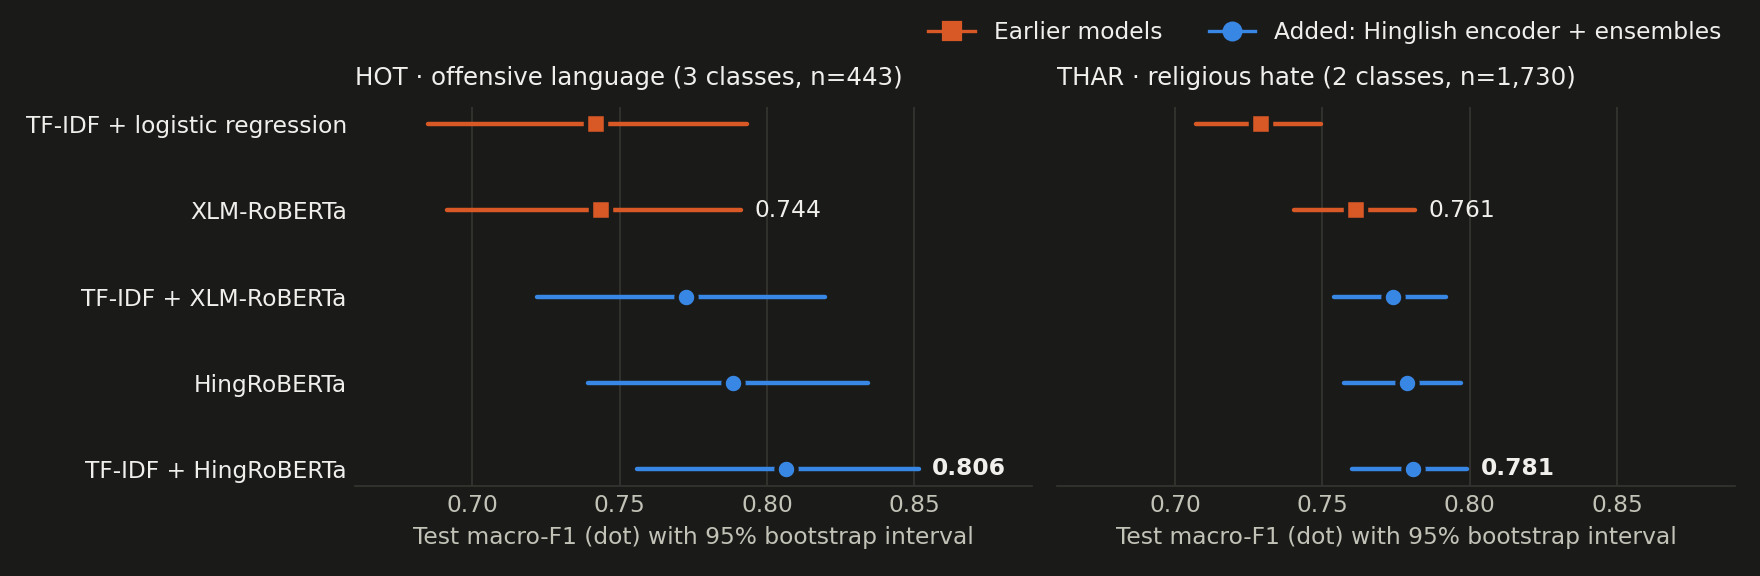
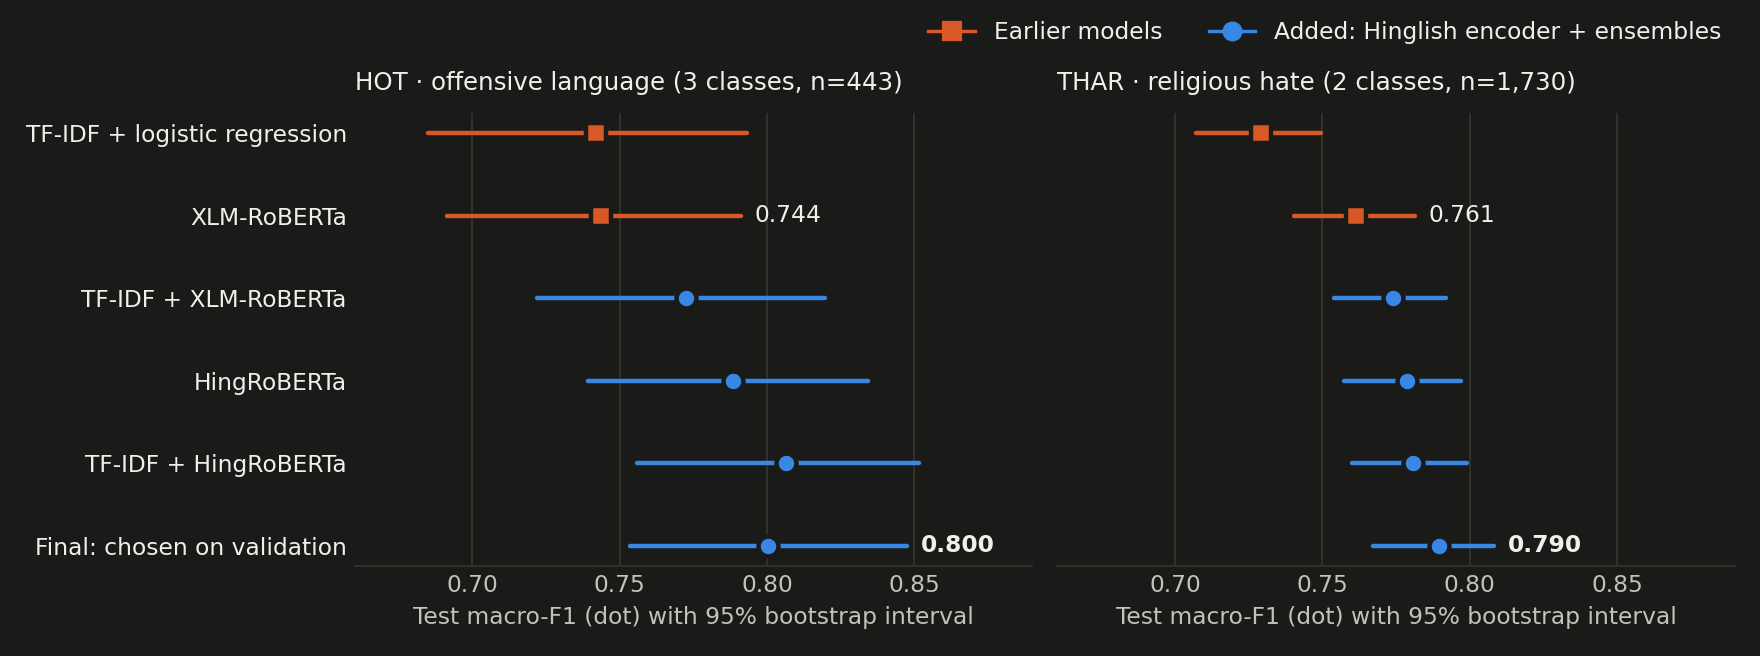
Validation-selected final systems (HOT 0.800, THAR 0.790), extra-data pretraining, selection script
Final systems chosen from 12 pre-registered candidates on validation and scored on
test once. Corrects the earlier 0.806, which was picked by comparing on test.

diff --git a/scripts/intermediate_train.py b/scripts/intermediate_train.py
@@ -1,0 +1,131 @@
+"""Stage 1 of intermediate-task training: teach an encoder "abusive/aggressive vs not" on extra
+Hindi/Hinglish data, then save the ENCODER ONLY so `cli train --base-model <dir>` can fine-tune it
+on HOT or THAR exactly like any Hugging Face model.
+
+    python scripts/intermediate_train.py --device cuda
+    python -m hinglishguard.cli train --task hot --backend transformer --device cuda \
+        --base-model artifacts/_intermediate/hing-aux --output-name hingaux
+
+Extra data (downloaded to data/raw/aux/, never committed):
+  - TRAC-1 Hindi (Kumar et al., 2018; Apache-2.0): Facebook comments, ~74% Roman-script Hinglish.
+    OAG (overtly aggressive) -> 1, NAG -> 0. CAG (covert) is dropped as too ambiguous.
+  - MACD Hindi (Gupta et al., NeurIPS 2022; no licence stated, so research use only, not
+    redistributed): ShareChat comments in Devanagari. Source label 0 = abusive -> 1.
+
+Leakage guard: any extra comment whose normalised fingerprint matches a HOT/THAR validation or
+test record is removed before training, so those splits stay unseen.
+"""
+import argparse
+import json
+import sys
+import urllib.request
+from pathlib import Path
+
+ROOT = Path(__file__).resolve().parents[1]
+sys.path.insert(0, str(ROOT))
+from hinglishguard.data import fingerprint  # noqa: E402
+from hinglishguard.normalization import clean  # noqa: E402
+
+AUX = ROOT / "data/raw/aux"
+OUT = ROOT / "artifacts/_intermediate/hing-aux"
+SOURCES = {
+    "trac_hi_train.csv": "https://raw.githubusercontent.com/kmi-linguistics/trac-1/master/hindi/agr_hi_train.csv",
+    "trac_hi_dev.csv": "https://raw.githubusercontent.com/kmi-linguistics/trac-1/master/hindi/agr_hi_dev.csv",
+    "macd_hindi_train.csv": "https://raw.githubusercontent.com/ShareChatAI/MACD/main/dataset/hindi_train.csv",
+    "macd_hindi_val.csv": "https://raw.githubusercontent.com/ShareChatAI/MACD/main/dataset/hindi_val.csv",
+    "macd_hindi_test.csv": "https://raw.githubusercontent.com/ShareChatAI/MACD/main/dataset/hindi_test.csv",
+}
+
+
+def download():
+    AUX.mkdir(parents=True, exist_ok=True)
+    for name, url in SOURCES.items():
+        if not (AUX / name).exists():
+            urllib.request.urlretrieve(url, AUX / name)
+
+
+def load_rows():
+    import pandas as pd
+    rows = []
+    for name in ("trac_hi_train.csv", "trac_hi_dev.csv"):
+        d = pd.read_csv(AUX / name, header=None, names=["id", "text", "label"], on_bad_lines="skip")
+        d = d[d.label.isin(["OAG", "NAG"])]
+        rows += [(str(t), int(lbl == "OAG"), "trac") for t, lbl in zip(d.text, d.label)]
+    for name in ("macd_hindi_train.csv", "macd_hindi_val.csv", "macd_hindi_test.csv"):
+        d = pd.read_csv(AUX / name)
+        rows += [(str(t), int(lbl == 0), "macd") for t, lbl in zip(d.text, d.label)]
+    return rows
+
+
+def main():
+    ap = argparse.ArgumentParser()
+    ap.add_argument("--base-model", default="l3cube-pune/hing-roberta")
+    ap.add_argument("--epochs", type=float, default=2)
+    ap.add_argument("--device", default="cuda")
+    ap.add_argument("--seed", type=int, default=42)
+    args = ap.parse_args()
+
+    download()
+    records = json.loads((ROOT / "data/processed/records.json").read_text(encoding="utf-8"))
+    protected = {fingerprint(r["text"]) for r in records if r["split"] in ("validation", "test")}
+    rows, dropped = [], 0
+    for text, label, src in load_rows():
+        text = clean(text)
+        if not text.strip():
+            continue
+        if fingerprint(text) in protected:
+            dropped += 1
+            continue
+        rows.append({"text": text, "label": label, "source": src})
+    by_src = {s: sum(r["source"] == s for r in rows) for s in ("trac", "macd")}
+    print(f"aux rows: {len(rows)} {by_src}, positive={sum(r['label'] for r in rows)}, removed as HOT/THAR val/test duplicates: {dropped}", flush=True)
+
+    import random
+
+    import torch
+    from transformers import (AutoModel, AutoModelForSequenceClassification, AutoTokenizer,
+                              DataCollatorWithPadding, Trainer, TrainingArguments, set_seed)
+    set_seed(args.seed)
+    random.Random(args.seed).shuffle(rows)
+    hold = rows[:2000]  # sanity check only; HOT/THAR splits are what matter
+    train = rows[2000:]
+    tok = AutoTokenizer.from_pretrained(args.base_model)
+
+    class DS(torch.utils.data.Dataset):
+        def __init__(self, r):
+            self.r = r
+
+        def __len__(self):
+            return len(self.r)
+
+        def __getitem__(self, i):
+            return dict(tok(self.r[i]["text"], truncation=True, max_length=192), labels=self.r[i]["label"])
+
+    def compute(p):
+        from sklearn.metrics import f1_score
+        return {"macro_f1": f1_score(p.label_ids, p.predictions.argmax(axis=1), average="macro")}
+
+    model = AutoModelForSequenceClassification.from_pretrained(args.base_model, num_labels=2)
+    targs = TrainingArguments(output_dir=str(OUT.parent / "checkpoints"), learning_rate=2e-5, per_device_train_batch_size=16,
+                              per_device_eval_batch_size=32, num_train_epochs=args.epochs, weight_decay=0.01, warmup_ratio=0.06,
+                              eval_strategy="epoch", save_strategy="no", fp16=args.device == "cuda", seed=args.seed,
+                              report_to=[], logging_steps=200)
+    trainer = Trainer(model=model, args=targs, train_dataset=DS(train), eval_dataset=DS(hold),
+                      data_collator=DataCollatorWithPadding(tok), compute_metrics=compute)
+    trainer.train()
+    result = trainer.evaluate()
+    print("aux held-out:", {k: round(v, 4) for k, v in result.items() if "f1" in k or "loss" in k}, flush=True)
+
+    # Save the encoder only: the stage-2 trainer adds a fresh HOT/THAR head on top.
+    OUT.mkdir(parents=True, exist_ok=True)
+    model.save_pretrained(OUT / "_full")
+    AutoModel.from_pretrained(OUT / "_full").save_pretrained(OUT)
+    tok.save_pretrained(OUT)
+    (OUT / "aux_report.json").write_text(json.dumps({"rows": len(rows), "by_source": by_src, "removed_duplicates": dropped,
+                                                      "aux_holdout": result, "base_model": args.base_model,
+                                                      "epochs": args.epochs, "seed": args.seed}, indent=2), encoding="utf-8")
+    print("saved encoder to", OUT, flush=True)
+
+
+if __name__ == "__main__":
+    main()

diff --git a/scripts/select_ensemble.py b/scripts/select_ensemble.py
@@ -1,0 +1,63 @@
+"""Pick an ensemble on VALIDATION data only, then score the single winner on the test set.
+
+    python scripts/select_ensemble.py --task hot --device cuda
+
+The candidate list is fixed in advance (not searched over every subset) so that choosing
+among them does not overfit the validation split. Only the chosen ensemble is evaluated on
+test, once; its folder is artifacts/<task>/best.
+"""
+import argparse
+import json
+import sys
+from pathlib import Path
+
+ROOT = Path(__file__).resolve().parents[1]
+sys.path.insert(0, str(ROOT))
+from hinglishguard.models import calibrate_ensemble, evaluate  # noqa: E402
+
+SEEDS = ["hingroberta", "hingroberta-s13", "hingroberta-s7"]
+CANDIDATES = {
+    "hingroberta alone": ["hingroberta"],
+    "hingaux alone (extra-data pretraining)": ["hingaux"],
+    "tfidf+hingroberta (current)": ["tfidf", "hingroberta"],
+    "tfidf+hingaux": ["tfidf", "hingaux"],
+    "hingaux + hingroberta x3 seeds + tfidf": ["hingaux"] + SEEDS + ["tfidf"],
+    "everything": ["hingaux"] + SEEDS + ["hingmixed", "muril", "tfidf"],
+    "hingroberta x3 seeds": SEEDS,
+    "hingroberta x3 seeds + tfidf": SEEDS + ["tfidf"],
+    "3 Hinglish/Indic encoders": ["hingroberta", "hingmixed", "muril"],
+    "3 Hinglish/Indic encoders + tfidf": ["hingroberta", "hingmixed", "muril", "tfidf"],
+    "all transformers + tfidf": SEEDS + ["hingmixed", "muril", "tfidf"],
+}
+
+
+def main():
+    ap = argparse.ArgumentParser()
+    ap.add_argument("--task", choices=["hot", "thar"], required=True)
+    ap.add_argument("--device", default="cpu")
+    args = ap.parse_args()
+    P, A = ROOT / "data/processed", ROOT / "artifacts"
+    results = {}
+    for name, members in CANDIDATES.items():
+        missing = [m for m in members if not (A / args.task / m / "metadata.json").exists()]
+        if missing:
+            print(f"skip {name}: missing {missing}")
+            continue
+        report = calibrate_ensemble(P, A, args.task, args.device, members=tuple(members), output_name="best")
+        results[name] = (report["validation"]["macro_f1"], members)
+        print(f"[{args.task}] VALIDATION {report['validation']['macro_f1']:.4f}  {name}", flush=True)
+    winner = max(results, key=lambda k: results[k][0])
+    members = results[winner][1]
+    calibrate_ensemble(P, A, args.task, args.device, members=tuple(members), output_name="best")
+    test = evaluate(P, A, args.task, "best", args.device)
+    hate = {k: round(v["f1-score"], 3) for k, v in test["report"].items() if isinstance(v, dict) and k not in ("macro avg", "weighted avg")}
+    meta = json.loads((A / args.task / "best/metadata.json").read_text(encoding="utf-8"))
+    summary = {"task": args.task, "chosen": winner, "members": members, "validation": {k: round(v[0], 4) for k, v in results.items()},
+               "test_macro_f1": round(test["macro_f1"], 4), "test_ci95": [round(x, 4) for x in test["macro_f1_ci95"]],
+               "test_per_class_f1": hate, "validation_coverage": round(meta["thresholds"]["coverage"], 3)}
+    (A / args.task / "best/selection.json").write_text(json.dumps(summary, indent=2), encoding="utf-8")
+    print(json.dumps(summary, indent=2))
+
+
+if __name__ == "__main__":
+    main()

diff --git a/scripts/plot_results.py b/scripts/plot_results.py
@@ -20,6 +20,7 @@ MODELS = [  # (folder, label, added in the HingRoBERTa/ensemble update?)
     ("ensemble", "TF-IDF + XLM-RoBERTa", True),
     ("hingroberta", "HingRoBERTa", True),
     ("ensemble-hing", "TF-IDF + HingRoBERTa", True),
+    ("best", "Final: chosen on validation", True),
 ]
 TASKS = [("hot", "HOT · offensive language (3 classes, n=443)"),
          ("thar", "THAR · religious hate (2 classes, n=1,730)")]
@@ -38,19 +39,18 @@ def load(task, folder):
 def draw(mode):
     t = THEMES[mode]
     plt.rcParams.update({"font.family": "DejaVu Sans", "font.size": 10.5})
-    fig, axes = plt.subplots(1, 2, figsize=(11, 3.6), sharey=True, facecolor=t["surface"])
+    fig, axes = plt.subplots(1, 2, figsize=(11, 4.1), sharey=True, facecolor=t["surface"])
     for ax, (task, title) in zip(axes, TASKS):
         ax.set_facecolor(t["surface"])
-        rows = [(label, new, *load(task, folder)) for folder, label, new in MODELS]
-        best = max(r[2] for r in rows)
-        for y, (label, new, f1, (lo, hi)) in enumerate(rows):
+        rows = [(folder, label, new, *load(task, folder)) for folder, label, new in MODELS]
+        for y, (folder, label, new, f1, (lo, hi)) in enumerate(rows):
             color = t["new"] if new else t["old"]
             ax.plot([lo, hi], [y, y], color=color, linewidth=2, solid_capstyle="round", zorder=2)
             ax.scatter([f1], [y], s=80, marker="o" if new else "s", color=color,
                        edgecolors=t["surface"], linewidths=2, zorder=3)
-            if f1 == best or label == "XLM-RoBERTa":  # selective direct labels: baseline and best only
+            if folder == "best" or label == "XLM-RoBERTa":  # selective direct labels: baseline and final system only
                 ax.annotate(f"{f1:.3f}", (hi, y), xytext=(6, 0), textcoords="offset points",
-                            va="center", color=t["ink"], fontweight="bold" if f1 == best else "normal")
+                            va="center", color=t["ink"], fontweight="bold" if folder == "best" else "normal")
         ax.set_title(title, loc="left", color=t["ink"], fontsize=11, pad=10)
         ax.set_xlim(0.66, 0.89)
         ax.xaxis.grid(True, color=t["grid"], linewidth=0.8)

diff --git a/README.md b/README.md
@@ -33,29 +33,30 @@ audit log (SQLite): every message, revision, verdict and evidence
 
 ## Results
 
-Held-out test sets that no model or threshold ever saw during training or tuning. Dots are macro-F1; whiskers are 1,000-round bootstrap 95% intervals.
+Held-out test sets. Every choice (model, ensemble members, thresholds) was made on the validation split; the final system for each task was picked from 12 pre-registered candidates by validation score and then scored on test **once**. Dots are macro-F1; whiskers are 1,000-round bootstrap 95% intervals.
 
 <picture>
   <source media="(prefers-color-scheme: dark)" srcset="docs/media/results-dark.png">
-  <img alt="Test macro-F1 with 95% intervals. HOT: TF-IDF 0.742, XLM-RoBERTa 0.744, TF-IDF+XLM-R 0.773, HingRoBERTa 0.789, TF-IDF+HingRoBERTa 0.806. THAR: 0.729, 0.761, 0.774, 0.779, 0.781." src="docs/media/results-light.png">
+  <img alt="Test macro-F1 with 95% intervals. Final validation-selected systems: HOT 0.800, THAR 0.790, versus XLM-RoBERTa baselines 0.744 and 0.761." src="docs/media/results-light.png">
 </picture>
 
-| Model | HOT macro-F1 (95% CI) | HOT *hate-inducing* F1 | HOT auto-decided | THAR macro-F1 (95% CI) | THAR auto-decided |
-|---|---|---|---|---|---|
-| TF-IDF + logistic regression | 0.742 (0.685–0.793) | 0.575 | 76% | 0.729 (0.707–0.749) | 16% |
-| XLM-RoBERTa | 0.744 (0.691–0.791) | 0.623 | 78% | 0.761 (0.740–0.781) | 15% |
-| TF-IDF + XLM-RoBERTa ensemble | 0.773 (0.722–0.820) | 0.638 | 86% | 0.774 (0.754–0.792) | 35% |
-| HingRoBERTa | 0.789 (0.739–0.834) | 0.667 | 93% | 0.779 (0.757–0.797) | 38% |
-| **TF-IDF + HingRoBERTa ensemble** | **0.806 (0.756–0.852)** | **0.696** | 89% | **0.781 (0.760–0.799)** | **43%** |
+| | Before | **Final system** |
+|---|---|---|
+| **HOT** macro-F1 (3 classes, 443 test comments) | 0.744 (XLM-RoBERTa) | **0.800** (95% CI 0.754–0.848) |
+| HOT *hate-inducing* F1, the hardest class | 0.623 | **0.681** |
+| **THAR** macro-F1 (binary, 1,730 test comments) | 0.761 (XLM-RoBERTa) | **0.790** (95% CI 0.767–0.808) |
+| Comments decided automatically at ≥90% validation precision | HOT 78% · THAR 15% | HOT **93%** · THAR **46%** |
 
-HOT: 443 test comments, 3 classes (non-offensive / hate-inducing / abusive). THAR: 1,730 test comments, binary anti-religion. 14,490 records after de-duplication, split so near-duplicates never cross train/test.
+Final systems: **HOT** = 3 HingRoBERTa models (different seeds) averaged. **THAR** = HingRoBERTa + HingRoBERTa-mixed + MuRIL averaged. 14,490 records after de-duplication, split so near-duplicates never cross train/test.
 
-**What changed and what it means**
+**What worked, what didn't**
 
-- **A Hinglish-pretrained encoder beats a general multilingual one.** Swapping XLM-RoBERTa for [HingRoBERTa](https://huggingface.co/l3cube-pune/hing-roberta) (same size, pretrained on Hinglish tweets) lifted HOT from 0.744 to 0.789 and the hardest class, *hate-inducing* (44 test examples), from 0.62 to 0.67. Training takes about 5½ minutes on one 16 GB GPU.
-- **TF-IDF and the transformer make different mistakes, so averaging their calibrated probabilities helps.** The best system reaches 0.806 on HOT and 0.696 on the hate class.
-- **Far more decisions can be automated safely.** "Auto-decided" is the share of comments the system may decide without a human because its score passes gates that require ≥90% precision and ≥30 supporting examples. On THAR this rose from 15% to 43%, so the share left for human review fell from 85% to 57% (about two-thirds as many comments).
-- **Honest caveats.** On HOT the intervals still overlap (443 test comments is small), so the gain over XLM-RoBERTa is likely but not proven. Auto-decided rates are measured on the validation set the gates were fitted on, so treat them as estimates. The agent's own benefit is **not yet benchmarked**: its challenge sets are drafts awaiting human review (see [Evaluation and review work](#evaluation-and-review-work)).
+- **A Hinglish-pretrained encoder beats a general multilingual one.** Swapping XLM-RoBERTa for [HingRoBERTa](https://huggingface.co/l3cube-pune/hing-roberta) lifted HOT from 0.744 to 0.789 on its own.
+- **Ensembles of diverse models help most.** Seeds and different encoders make different mistakes; averaging their calibrated probabilities gives the final gains and far higher automatic coverage. On THAR the share of comments left for human review fell from 85% to 54%.
+- **Extra training data helped one model but not the final system.** Pre-training HingRoBERTa on 42,523 extra labelled comments ([TRAC-1](https://github.com/kmi-linguistics/trac-1) Hindi aggression + [MACD](https://github.com/ShareChatAI/MACD) Hindi abuse, with HOT/THAR test duplicates removed) raised its THAR validation score from 0.768 to 0.785, but neither task's best ensemble selected it. Those datasets label "aggression" and "abuse" differently from HOT/THAR.
+- **MuRIL alone scored poorly on HOT** (validation 0.61), the Roman-script task; it only helps inside the THAR ensemble.
+
+**Honest caveats.** HOT's test set is small, so its interval is wide (±0.05). An earlier exploratory run reported 0.806 for TF-IDF + HingRoBERTa; that was the best of five configurations compared *on the test set*, so it is slightly optimistic. The validation-selected 0.800 is the number to quote. Auto-decision rates are measured on validation. The agent's own benefit is **not yet benchmarked**: its challenge sets are drafts awaiting human review (see [Evaluation and review work](#evaluation-and-review-work)).
 
 ## How it works
 
@@ -156,11 +157,18 @@ python -m hinglishguard.cli calibrate-ensemble --task hot --members tfidf,hingro
 # Held-out evaluation (writes evaluation.json with macro-F1 and its bootstrap 95% interval)
 python -m hinglishguard.cli evaluate --task hot --backend ensemble-hing --device cuda
 
+# Extra-data intermediate training (TRAC-1 + MACD Hindi, test duplicates removed), then fine-tune as usual
+python scripts/intermediate_train.py --device cuda
+python -m hinglishguard.cli train --task thar --backend transformer --device cuda --base-model artifacts/_intermediate/hing-aux --output-name hingaux
+
+# Pick the final system: 12 pre-registered candidates scored on validation; only the winner is scored on test
+python scripts/select_ensemble.py --task hot --device cuda      # -> artifacts/hot/best (+ selection.json)
+
 # Results chart for this README
 python scripts/plot_results.py
 ```
 
-Any trained folder under `artifacts/<task>/` (for example `hingroberta` or `ensemble-hing`) appears automatically in the Streamlit sidebar, the evaluation screen and every `--backend` option. Still open: seed variance (`--seed 13`, `--seed 7`) and MuRIL as a third encoder.
+Any trained folder under `artifacts/<task>/` (for example `hingroberta` or `ensemble-hing`) appears automatically in the Streamlit sidebar, the evaluation screen and every `--backend` option. Seeds 13 and 7, HingRoBERTa-mixed and MuRIL were trained for the selection step; per-model validation scores are in `artifacts/<task>/_reports/`.
 
 ### Settings
 

diff --git a/CHANGELOG.md b/CHANGELOG.md
@@ -5,6 +5,18 @@ Newest entries first. Things that were deliberately *not* changed are listed wit
 
 ---
 
+## 2026-11-14 (later) — Validation-selected final systems, extra training data
+
+**Final numbers (selected on validation from 12 pre-registered candidates; test scored once):** HOT 0.800 (95% CI 0.754–0.848), hate-inducing F1 0.681, 93% auto-decided; THAR 0.790 (0.767–0.808), 46% auto-decided. HOT = 3 HingRoBERTa seeds; THAR = HingRoBERTa + HingRoBERTa-mixed + MuRIL.
+
+**Correction:** the earlier 0.806 (TF-IDF + HingRoBERTa) was the best of five configurations compared on the test set, so it is slightly optimistic; its validation score (0.771) would not have selected it. README now quotes 0.800.
+
+**Extra data:** `scripts/intermediate_train.py` pre-trains HingRoBERTa on 42,523 comments from TRAC-1 Hindi (Apache-2.0) and MACD Hindi (no licence stated; research use, never redistributed). 2 comments matching HOT/THAR validation/test text were removed. THAR validation improved 0.768 → 0.785 for the single model, but no final ensemble selected it.
+
+**New:** `scripts/select_ensemble.py`, `scripts/intermediate_train.py`; plot includes the final system.
+
+---
+
 ## 2026-11-14 — Hinglish encoder, ensembles, publishing
 
 **Summary:** ran the two planned model experiments, generalised ensembles, and prepared the repository for GitHub. 41/41 tests pass and `ruff check .` is clean.
